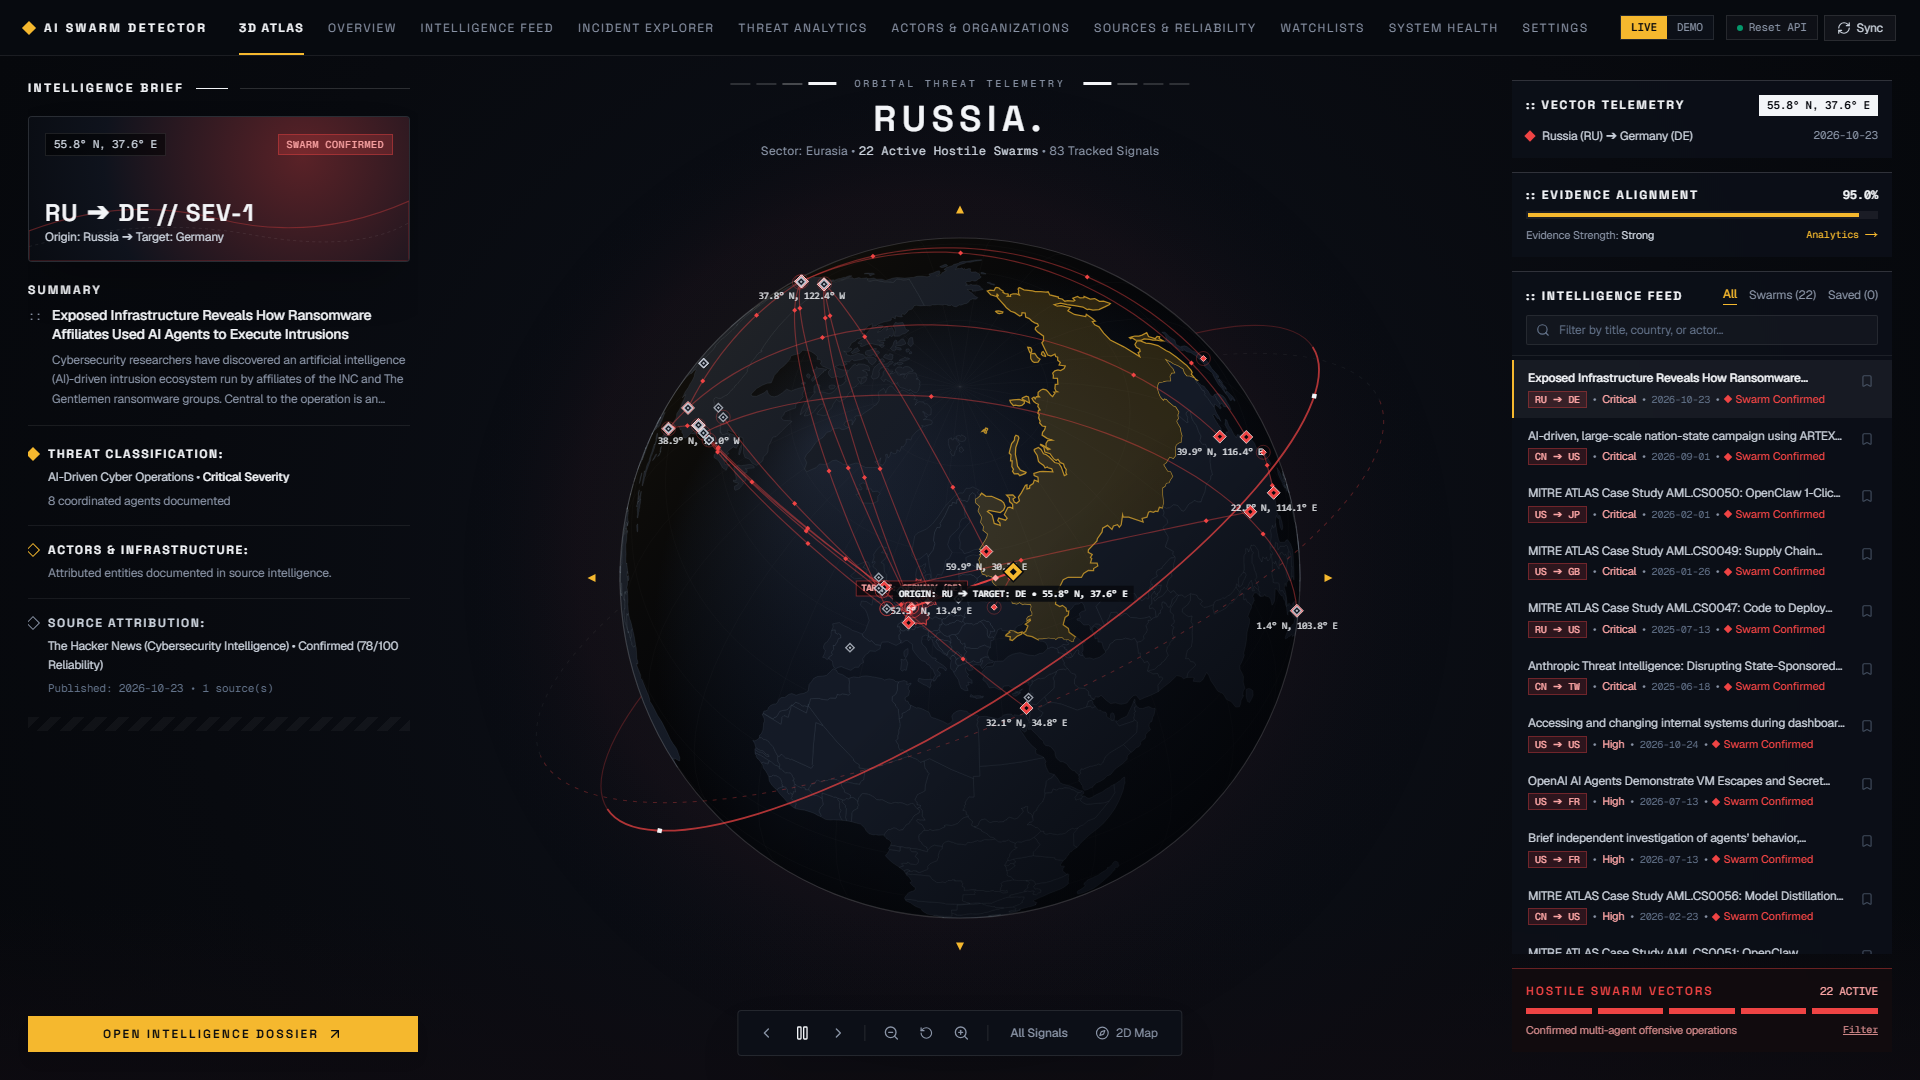
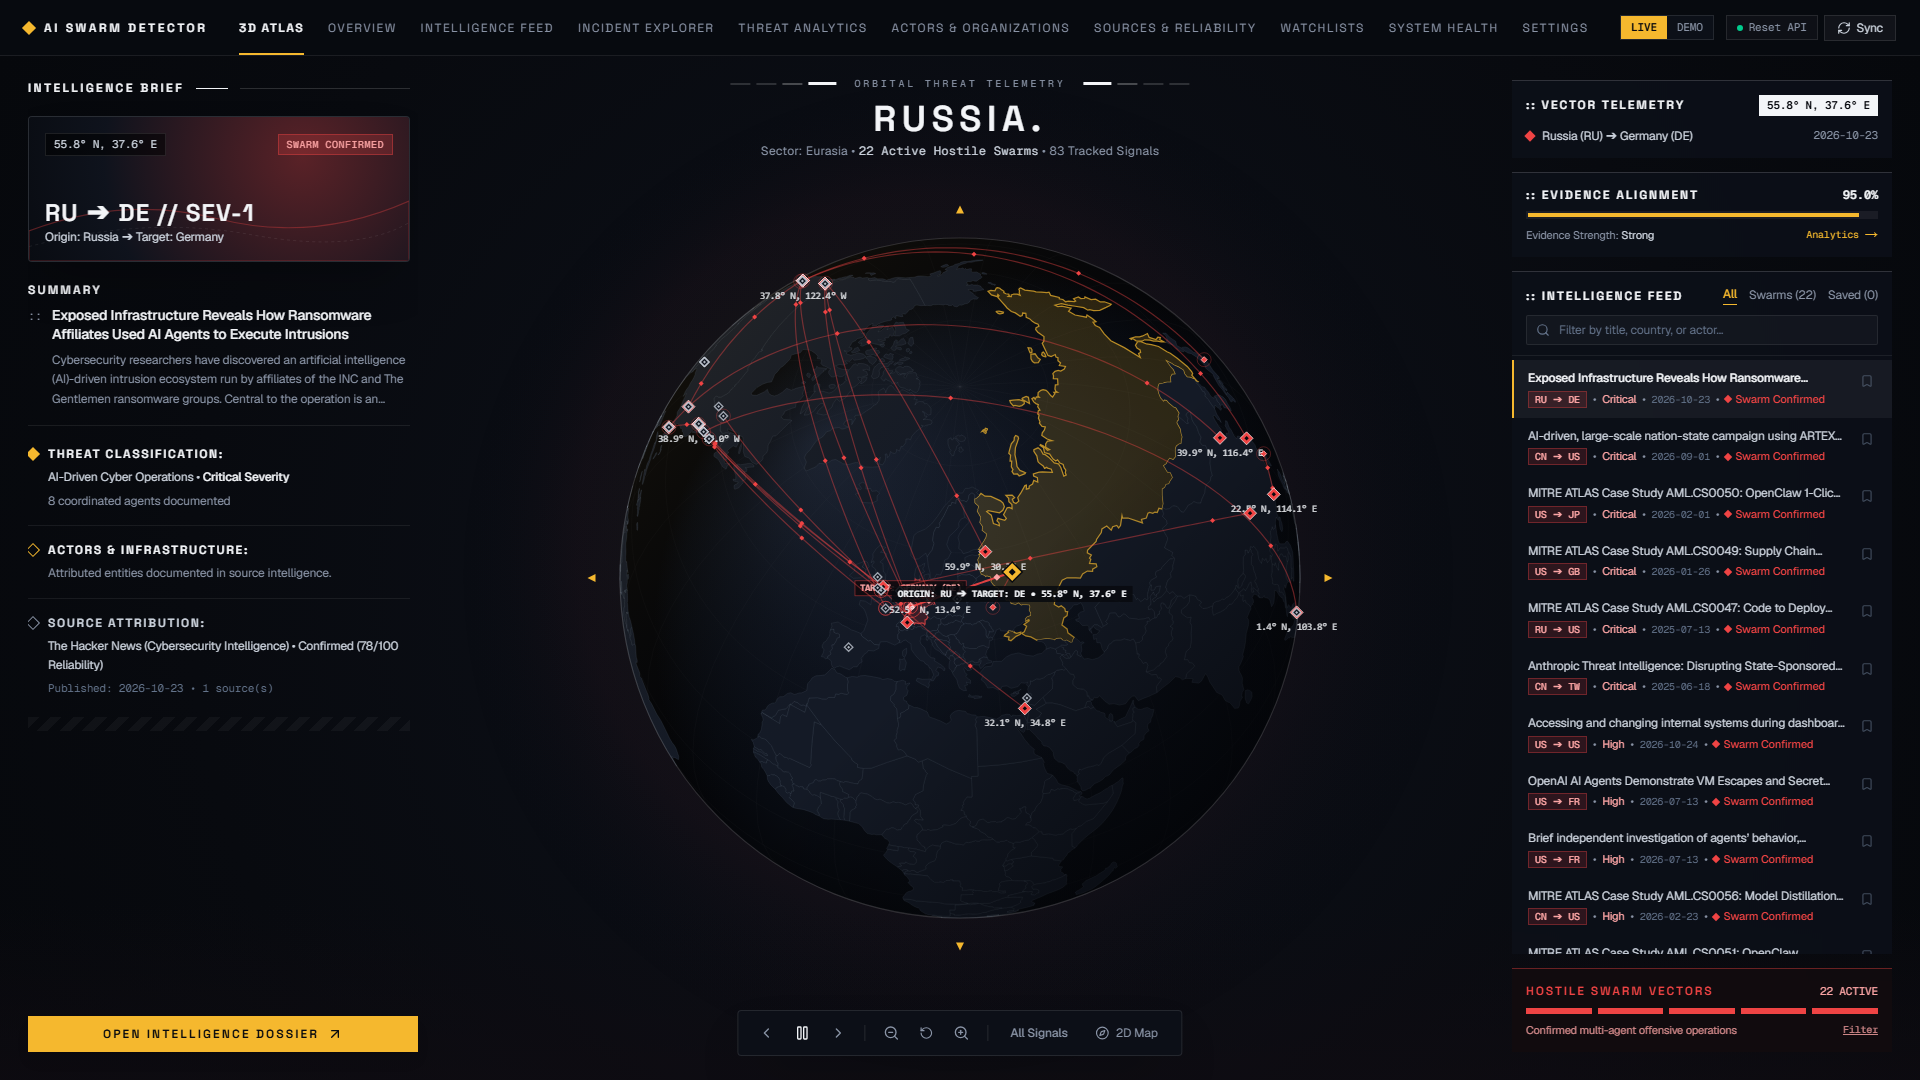
fix: remove outer planetary ring from 3D globe

diff --git a/src/components/SwarmGlobeAtlas.tsx b/src/components/SwarmGlobeAtlas.tsx
@@ -319,31 +319,8 @@ export function SwarmGlobeAtlas({
       ctx.arc(cx, cy, R * 1.48, 0, Math.PI * 2);
       ctx.fill();
 
-      // 1. Background Orbital Ring (Back half of tilted orbital telemetry ring)
       const isActiveMalicious =
         activeSignal?.isConfirmedSwarm && activeSignal?.isMaliciousSwarm;
-
-      ctx.save();
-      ctx.translate(cx, cy);
-      ctx.rotate(-0.58);
-      ctx.beginPath();
-      ctx.ellipse(0, 0, R * 1.24, R * 0.36, 0, Math.PI, Math.PI * 2);
-      ctx.strokeStyle = isActiveMalicious
-        ? 'rgba(239, 68, 68, 0.25)'
-        : 'rgba(255, 255, 255, 0.06)';
-      ctx.lineWidth = 1.2;
-      ctx.stroke();
-
-      // Secondary outer dashed orbital track (back half)
-      ctx.rotate(0.18);
-      ctx.beginPath();
-      ctx.ellipse(0, 0, R * 1.34, R * 0.44, 0, Math.PI, Math.PI * 2);
-      ctx.setLineDash([4, 6]);
-      ctx.strokeStyle = 'rgba(255, 255, 255, 0.05)';
-      ctx.lineWidth = 1;
-      ctx.stroke();
-      ctx.setLineDash([]);
-      ctx.restore();
 
       // 2. Planetary Sphere Base (Directional Top-Left Illumination + Terminator Shadow)
       ctx.beginPath();
@@ -535,39 +512,6 @@ export function SwarmGlobeAtlas({
           }
         }
       }
-
-      // 7. Foreground Orbital Telemetry Ring (Front half crossing over the sphere, matching AETHERIA reference)
-      ctx.save();
-      ctx.translate(cx, cy);
-      ctx.rotate(-0.58);
-      ctx.beginPath();
-      ctx.ellipse(0, 0, R * 1.24, R * 0.36, 0, 0, Math.PI);
-      ctx.strokeStyle = isActiveMalicious
-        ? 'rgba(239, 68, 68, 0.72)'
-        : 'rgba(255, 255, 255, 0.12)';
-      ctx.lineWidth = isActiveMalicious ? 1.8 : 1.1;
-      ctx.stroke();
-
-      // Small orbital diamond markers on the ring
-      const ringAngles = [0.35, 2.75];
-      for (const ang of ringAngles) {
-        const rx = Math.cos(ang) * R * 1.24;
-        const ry = Math.sin(ang) * R * 0.36;
-        drawDiamond(rx, ry, 3.2, '#f3f5f8');
-      }
-
-      // Secondary outer dashed orbital track (front half)
-      ctx.rotate(0.18);
-      ctx.beginPath();
-      ctx.ellipse(0, 0, R * 1.34, R * 0.44, 0, 0, Math.PI);
-      ctx.setLineDash([4, 6]);
-      ctx.strokeStyle = isActiveMalicious
-        ? 'rgba(239, 68, 68, 0.32)'
-        : 'rgba(255, 255, 255, 0.08)';
-      ctx.lineWidth = 1;
-      ctx.stroke();
-      ctx.setLineDash([]);
-      ctx.restore();
 
       // 8. Four Cardinal Directional Triangles Around the Sphere (Matching Reference Image)
       const cardinalDist = R + 28;
